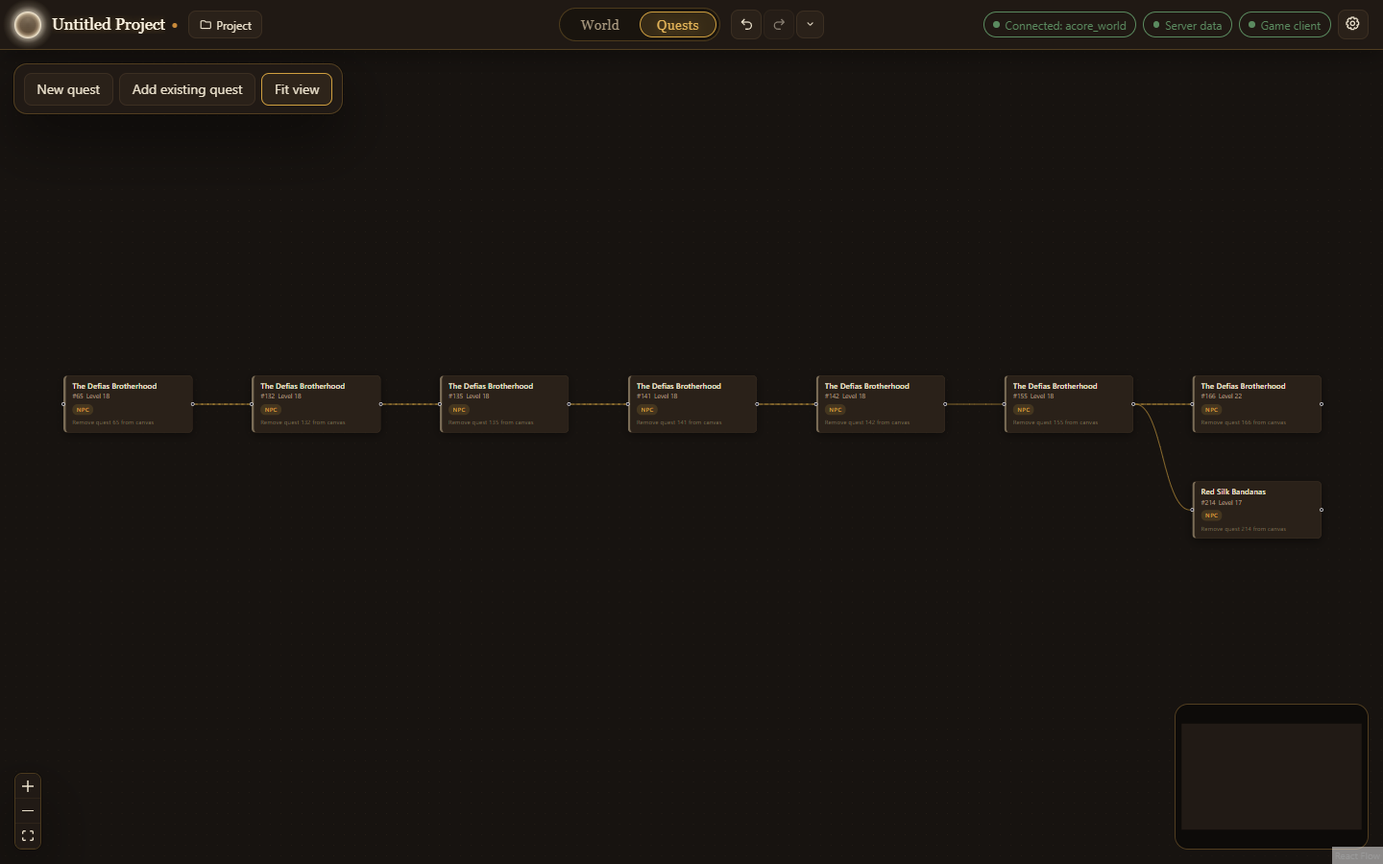
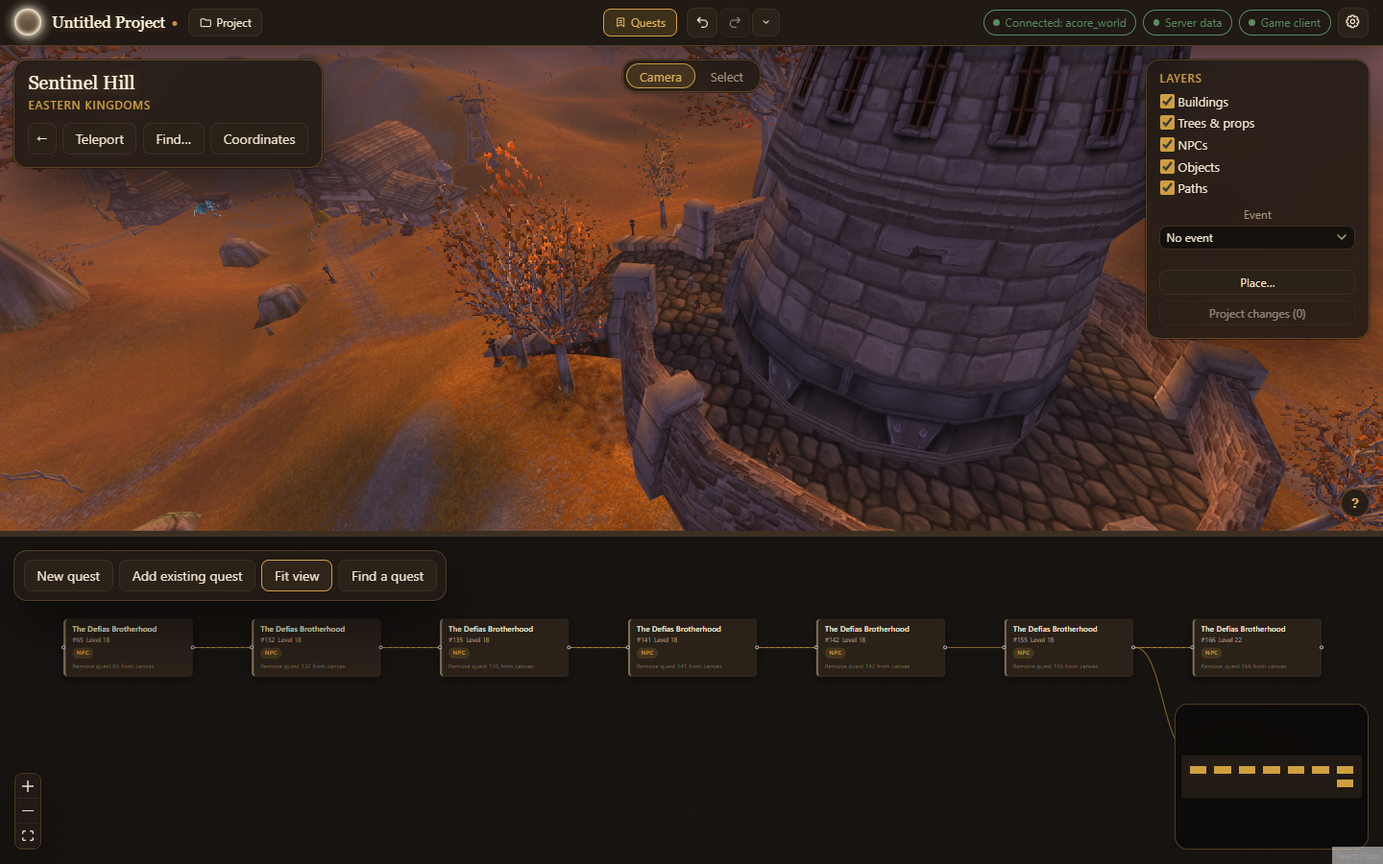
docs: one interface, the Quests dock and the 3D view, with the 2D quest map gone

diff --git a/site/src/content/docs/contributing/architecture.md b/site/src/content/docs/contributing/architecture.md
@@ -12,9 +12,9 @@ Azeroth World Editor is an [Electron](https://www.electronjs.org/) app written i
 ```
 src/
   core/       Pure logic: no Electron, no React. Quest model, schema, SQL, scripts, map maths.
-  main/       Electron's main process: the IPC API, the project store, database connections, map tiles.
+  main/       Electron's main process: the IPC API, the project store, database connections, the game client's files.
   preload/    The bridge that exposes the main process's API to the interface.
-  renderer/   The React interface: the World (world3d/), views, modules, editors, the map.
+  renderer/   The React interface: the World (world3d/), the Quests dock (views/dock/), views, modules, editors.
   shared/     Types shared by main and renderer, such as the IPC contract.
 drizzle/      Migrations for the local project store.
 tests/        core, main, renderer, integration, e2e and docs tests.
@@ -27,9 +27,9 @@ Inside `src/core`, each feature has its own folder: `scripts` (quest scripting s
 
 ## Processes
 
-- The **main process** (`src/main`) owns everything with side effects: the MySQL connection to the world database (read-only) and optional dev database, the open project and its undo history, the local store (SQLite through Drizzle), the file system, the game client and server data folders, the `awe-map://` protocol that serves map tiles and the `awe-wow://` protocol that serves game client files to the 3D view.
+- The **main process** (`src/main`) owns everything with side effects: the MySQL connection to the world database (read-only) and optional dev database, the open project and its undo history, the local store (SQLite through Drizzle), the file system, the game client and server data folders, and the `awe-wow://` protocol that serves game client files to the 3D view.
 - The **API** the renderer calls is `createApi` in `src/main/api/`. It has one module per area (`connection-api`, `lookup-api`, `quests-api`, `map-api`, `entities-api`, `world-layer-api`, `spawn-groups-api`, `history-api`, `export-api` and `project-api`), and each implements its interface from the contract in `src/shared/ipc/`, where each area has a file with its types and its part of `Api` (`QuestsApi`, `MapApi` and so on), and `requests.ts` validates every call as it arrives. The areas are built from shared services, made once in `services.ts`: the connection, the project context, the server data files, the export checks, patch building, spawn groups and history travel. A new call is declared in its area's interface, given a request schema, and written in its area's module; a new area is a new pair of files, its interface added to `Api` and its module spread into `createApi`.
-- The **renderer** (`src/renderer`) is the interface. It talks to the main process only through the API that `src/preload` exposes; state lives in [Zustand](https://zustand.docs.pmnd.rs/) stores in `src/renderer/state`. The app store (`app-store.ts`) is made of slices under `state/app/`, one per area (connection, quest, canvas, rotations, world, export, project, history), each with its own interface; what they share that is not state (debounce timers, request tokens, the undo hold) is the `Kit` in `kit.ts`.
+- The **renderer** (`src/renderer`) is the interface. It talks to the main process only through the API that `src/preload` exposes; state lives in [Zustand](https://zustand.docs.pmnd.rs/) stores in `src/renderer/state`. The app store (`app-store.ts`) is made of slices under `state/app/`, one per area (connection, quest, canvas, focus, links, rotations, world, export, project, history, shell), each with its own interface; what they share that is not state (debounce timers, request tokens, the undo hold) is the `Kit` in `kit.ts`.
 
 ## The 3D view
 
@@ -57,9 +57,18 @@ The app is built around the **World**: the game world in 3D, drawn from the user
 
 `npm run test:world3d` opens the real 3D code in a browser (software WebGL, no graphics card) against a fake game client built by `tests/world3d/fake-client.ts`. The failures here are usually silent, an empty view, so write each test to fail against the old code before fixing. See [Testing](/azeroth-world-editor/contributing/testing/).
 
-### Where it is going
+### One interface
 
-The next step is one interface: the quest chain view built into the 3D view, alongside it. Selecting a quest, or an NPC or object in a quest, takes the World to them, and a change made in either shows in the other at once, around simple click-and-drag workflows. Changes to the 3D view should keep that direction in mind.
+The World and the quest chain are one workspace:
+
+- **The dock.** `views/dock/DockLayout.tsx` lays out the World and the **Quests** dock under or beside it. The dock is closed when the app starts and opens with **Quests** in the top bar or when a quest is opened; the World keeps one wrapper, so it never remounts. The quest editor is a centred modal over both (`views/QuestEditorModal.tsx`).
+- **The focus.** `state/app/focus.ts` holds the one quest, and part of it, that every view agrees on. Opening a quest sets it, and `world3d/useFocusFollow.ts` takes the camera to the quest's nearest NPC or object, unless the author moved the camera after the focus was set. Selecting a giver, ender or objective of the open quest in the World (by a click or with Find) sets the focused part, and the quest's card marks it; that selection never moves the camera.
+- **Preferences.** `preferences/store.ts` keeps this computer's preferences, such as the dock's side and its size on each side, in local storage under `acqc.preferences`, never in the project file. The Settings dialog is built from the sections in `views/settings/sections.ts`; a new tab is a new entry there.
+- **Linking by drag.** Dragging from one quest card's handle to another's makes turning in the first unlock the second. `views/dock/chain-link.ts` decides whether the link is allowed, and `state/app/links-edit.ts` writes it as one undo step without moving the focus.
+- **Placing by drag.** The open quest's card lists its NPCs and objects; each row drags onto the 3D view (`world3d/chain-drop.ts`, `CHAIN_DRAG_TYPE`) to place a spawn there, as one undo step. The rows carry no "placed" marker, because telling whether a database NPC has a spawn would cost a database read per row.
+- **Quest positions.** The open quest's script and fight positions and its POI are drawn as labelled pins (`world3d/scene/marker/MarkerLayer.ts`, built from `world3d/quest-markers.ts`), selected and dragged like spawns.
+
+The 2D quest map and Leaflet were removed when the World took over placing, patrols and quest positions.
 
 ## From the editor to SQL
 
@@ -73,5 +82,5 @@ See [What gets written to the database](/azeroth-world-editor/reference/database
 
 ## Interface conventions
 
-- Creating and editing happen in **centred modals**. The side panel is only for previews (the quest map is the exception).
+- Creating and editing happen in **centred modals**. The side panel is only for previews.
 - Copy is written in **author terms**: quests, givers, NPCs, scenes. Table and column names appear only where an admin needs them, such as the Changes dialog.

diff --git a/CONTRIBUTING.md b/CONTRIBUTING.md
@@ -30,9 +30,11 @@ More: [Development setup](https://dmck96.github.io/azeroth-world-editor/contribu
 | Path | What lives there |
 | --- | --- |
 | `src/core` | Pure logic with no Electron or React: quest model, schema, SQL, scripts, combat, map maths. |
-| `src/main` | Electron's main process: the IPC API, the project store, database connections, map tiles. |
+| `src/main` | Electron's main process: the IPC API, the project store, database connections, the game client's files. |
 | `src/preload` | The bridge exposing the main process's API to the interface. |
-| `src/renderer` | The React interface. |
+| `src/renderer` | The React interface. `state/app/` holds the app store's slices, `preferences/` this computer's preferences. |
+| `src/renderer/views/dock` | The **Quests** dock: `DockLayout` (the World plus a resizable dock under or beside it), `ChainDock` and its `ChainGraph`. |
+| `src/renderer/views/settings` | The Settings dialog's sections, one tab each. |
 | `src/renderer/world3d` | The World: the 3D view, its editing tools and its right-click menu. `scene/` is the vendored Three.js renderer. |
 | `src/shared` | Types shared by main and renderer. |
 | `drizzle/` | Migrations for the local project store. |
@@ -55,7 +57,18 @@ The app opens on the World, and most new work touches it. The decisions to keep:
 - **Frame time is a budget:** measure per-frame work in a busy place such as Goldshire.
 - **Ported code keeps its credit:** licence and authors beside the code, and an entry in [CREDITS.md](CREDITS.md).
 
-Next on the roadmap is one interface: the quest chain view built into the 3D view, each following the other's selection and changes, with click-and-drag workflows. Design new World features with that in mind.
+### One interface
+
+The World and the quest chain are one workspace, and these are the pieces that keep them so:
+
+- **The dock.** `views/dock/DockLayout.tsx` lays out the World and the **Quests** dock under or beside it, closed when the app starts; the World keeps one wrapper, so it never remounts when the dock opens, closes or moves. The quest editor is a centred modal over both (`views/QuestEditorModal.tsx`).
+- **The focus.** `state/app/focus.ts` is the one quest, and part of it, that every view agrees on. Opening a quest sets it; `world3d/useFocusFollow.ts` takes the camera there (unless the author moved it since), and an NPC or object of the open quest selected in the World sets the focused part, which the quest's card marks.
+- **Preferences.** `preferences/store.ts` keeps this computer's preferences (the dock's side and sizes) in local storage under `acqc.preferences`, never in the project. Settings is built from `views/settings/sections.ts`: a new tab is a new entry there.
+- **Linking by drag.** Dragging from one quest card's handle to another's makes turning in the first unlock the second (`views/dock/chain-link.ts` checks it, `state/app/links-edit.ts` writes it as one undo step).
+- **Placing by drag.** A part row on the open quest's card drags onto the 3D view (`world3d/chain-drop.ts`, `CHAIN_DRAG_TYPE`) to place a spawn of it there, one undo step. The rows have no "placed" marker: telling whether a database NPC has a spawn would cost a read per row.
+- **Quest positions.** Script and fight positions and the POI of the open quest are pins in the scene (`world3d/scene/marker/MarkerLayer.ts`, from `world3d/quest-markers.ts`), selected and dragged like spawns.
+
+The 2D quest map is gone: placing, patrols and quest positions are all in the World, and Leaflet is no longer a dependency.
 
 More: [Architecture: the 3D view](https://dmck96.github.io/azeroth-world-editor/contributing/architecture/#the-3d-view)
 
@@ -77,7 +90,7 @@ More: [Testing](https://dmck96.github.io/azeroth-world-editor/contributing/testi
 
 - **Commits** follow [Conventional Commits](https://www.conventionalcommits.org/) with a scope: `feat(quest): …`, `fix(ui): …`, `docs(site): …`.
 - **Logic goes in `src/core`** and is unit-tested there. Write the failing test first; for the 3D view, check it fails against the old code, since its failures are often a silently empty view.
-- **Creating and editing happen in centred modals**; the side panel is only for previews (the quest map is the exception).
+- **Creating and editing happen in centred modals**; the side panel is only for previews.
 - **Interface copy is written in author terms**: quests, givers, NPCs and scenes, never table and column names.
 - **Comments explain why**, not what.
 

diff --git a/site/src/content/docs/guides/projects-and-canvas.md b/site/src/content/docs/guides/projects-and-canvas.md
@@ -1,20 +1,22 @@
 ---
-title: Projects and the quest canvas
-description: Lay out quest chains on the canvas, bring in existing quests and save your work as a project.
+title: Projects and the Quests dock
+description: Lay out quest chains in the dock beside the World, bring in existing quests and save your work as a project.
 sidebar:
   order: 1
 ---
 
-After you connect, the app opens on the **World**. Your quests are in the **Quests** dock: choose **Quests** in the top bar and it opens under the World (or beside it: see **Preferences** in [Settings](/azeroth-world-editor/reference/settings/)). It holds the **canvas**, with every quest in your project as a card and lines showing which quest leads to which. Drag the bar between the World and the dock to resize it. Opening a quest from anywhere opens the dock; opening and closing it keeps both where you left them. **Find a quest**, among the quest tools, searches the database for a quest to open.
+After you connect, the app opens on the **World**, with the **Quests** dock closed. Your quests are in the dock: choose **Quests** in the top bar and it opens under the World (or beside it: see **Preferences** in [Settings](/azeroth-world-editor/reference/settings/)). It holds the **canvas**, with every quest in your project as a card and lines showing which quest leads to which. Drag the bar between the World and the dock to resize it. Opening a quest from anywhere opens the dock; opening and closing it keeps both where you left them. **Find a quest**, among the quest tools, searches the database for a quest to open.
 
-![The canvas showing a chain of quests, each a card linked to the next](../../../assets/screenshots/canvas.png)
+![The World over Sentinel Hill, with the Quests dock under it showing a chain of quests, each a card linked to the next](../../../assets/screenshots/canvas.png)
+
+![The Quests dock beside the World, with the whole chain fitted into it](../../../assets/screenshots/dock-right.png)
 
 ## Add quests
 
 - **New quest** makes a quest from scratch and opens it straight away.
 - **Add existing quest** searches your world database by name or ID. Picking one brings in its **whole chain**: the quest you picked and every quest chained to it.
 
-Choose a card to preview the quest in a panel on the right: its giver, objectives, dialogue, rewards and more at a glance. The open quest's card lists its NPCs and objects (givers, enders and objectives); the one you selected in the World, or last went to, is marked. Drag one of them onto the World to place a spawn of it where you drop it, facing you; it is one step you can undo, and an NPC or object can have more than one spawn. From the preview, **Edit quest** opens it, **Remove from canvas** takes it off the canvas (your database is not touched) and **Close preview** hides the panel.
+Choose a card to open the quest: the World flies to its NPCs, and a preview beside the graph (under it, when the dock is beside the World) shows its giver, objectives, dialogue, rewards and more at a glance. The open quest's card lists its NPCs and objects (givers, enders and objectives); the one you selected in the World, or last went to, is marked. Drag one of them onto the World to place a spawn of it where you drop it, facing you; it is one step you can undo, and an NPC or object can have more than one spawn. The rows do not say whether one is placed already. From the preview, **Edit quest** (or a double-click on the card) opens the quest editor over the World, **Remove from canvas** takes it off the canvas (your database is not touched) and **Close preview** hides the panel.
 
 ## Link quests
 
@@ -28,7 +30,7 @@ Right-click a line for what you can do with it. **Remove link** takes away a tur
 - **Fit view**, with **New quest** and **Add existing quest** in the quest tools at the top left, zooms to show every quest.
 - The small map in the corner shows where you are on a large canvas.
 
-When you are inside a quest, **← Back to chain** returns to the canvas.
+In the quest editor, **← Back to chain** or **Esc** closes it and returns to the dock.
 
 ## Projects
 

diff --git a/README.md b/README.md
@@ -31,12 +31,12 @@
 ## What it does
 
 - **The world in 3D.** Walk the game world from your client files; place, move and turn NPCs and objects, draw their paths, set respawn times and build spawn groups, then export the changes as a project patch.
-- **Quest chains on a canvas.** Make new quests or bring in existing chains from your world database, see how they connect, and drag from one quest to another to link them.
+- **Quest chains docked to the World.** The **Quests** dock sits under or beside the 3D view. Make new quests or bring in existing chains from your world database, see how they connect, and drag from one quest to another to link them. Pick a quest and the camera flies to its NPCs; select one of them in the World and it is marked on the quest's card; drag one from the card onto the ground to place it.
 - **Givers and objectives.** Choose who offers and takes back a quest, and what the player must kill, use, collect or explore.
 - **Quest scripting.** Describe what happens around a quest as scenes: an NPC speaks on accept, a talk option gives credit, an escort walks a path.
 - **Combat wizard.** Design how an NPC fights, from one ability to a boss with phases, adds and health thresholds.
 - **New NPCs and objects.** Pick how they look, their faction and weapons, who sees them (the living, only the dead like a spirit healer, or both) and the game events their spawns follow; make readable books and notes, and chests with loot.
-- **Quest map.** Place spawns on the world map with the game's zone art, snap them to the ground and draw patrol routes with actions at each point.
+- **Patrols.** Place a new NPC in the World from its quest, draw its patrol on the ground and give each point a wait, a pace and actions such as a line to say.
 - **Test in game.** Get the GM commands to reload and try a quest on your test server.
 - **Export.** Review every change, then export an SQL patch or apply it to a dev database. Your live world database is only ever read.
 
@@ -50,11 +50,11 @@
     <td align="center"><sub><b>After</b>: dragged back onto the road, one entry in Project changes</sub></td>
   </tr>
   <tr>
-    <td width="50%"><img src="site/src/assets/screenshots/canvas.png" alt="The Quests canvas showing a chain of quests"></td>
+    <td width="50%"><img src="site/src/assets/screenshots/canvas.png" alt="The World over Sentinel Hill with the Quests dock under it, showing a chain of quests"></td>
     <td width="50%"><img src="site/src/assets/screenshots/world-menu.png" alt="The World's right-click menu"></td>
   </tr>
   <tr>
-    <td align="center"><sub><b>Quests</b>: chains on a canvas</sub></td>
+    <td align="center"><sub><b>Quests</b>: the chain in a dock under the World</sub></td>
     <td align="center"><sub><b>Right-click</b>: what you can do with what is under the cursor</sub></td>
   </tr>
   <tr>
@@ -66,11 +66,11 @@
     <td align="center"><sub><b>Combat wizard</b>: from one ability to a boss with phases</sub></td>
   </tr>
   <tr>
-    <td width="50%"><img src="site/src/assets/screenshots/quest-map.png" alt="The quest map with spawns placed in Elwynn Forest"></td>
+    <td width="50%"><img src="site/src/assets/screenshots/dock-right.png" alt="The Quests dock beside the World, with the whole chain fitted into it"></td>
     <td width="50%"><img src="site/src/assets/screenshots/npc-editor.png" alt="The NPC editor choosing how an NPC looks"></td>
   </tr>
   <tr>
-    <td align="center"><sub><b>Quest map</b>: spawns and patrols on the zone art</sub></td>
+    <td align="center"><sub><b>Beside the World</b>: the other dock layout, from Settings</sub></td>
     <td align="center"><sub><b>NPC editor</b>: looks, faction and weapons</sub></td>
   </tr>
 </table>

diff --git a/site/src/content/docs/guides/patrols.md b/site/src/content/docs/guides/patrols.md
@@ -7,7 +7,7 @@ sidebar:
 
 A **patrol** is a route a new NPC walks, over and over. At each point it can wait, say something, play an emote and more.
 
-![A patrol of three points being drawn, with the menu of point actions open](../../../assets/screenshots/patrol.png)
+![A patrol drawn in the World, with a point's settings open and a line for the NPC to say there](../../../assets/screenshots/patrol.png)
 
 ## Draw a route
 
@@ -15,27 +15,22 @@ A **patrol** is a route a new NPC walks, over and over. At each point it can wai
 2. Choose **Draw patrol** on its card, or beside one of its spawns under **Placement** in its editor. The editor steps aside and [the World](/azeroth-world-editor/guides/the-world/) goes to that spawn.
 3. Click the ground to add points in order. **Enter** finishes the path and brings the editor back; **Done** does the same.
 
-An NPC that already patrols offers **Edit patrol** instead: its route is shown to drag, and **Shift-click** adds a point. **Done** brings the editor back.
-
-On the [quest map](/azeroth-world-editor/guides/quest-map/), **Draw patrol** on a selected spawn draws a route by clicking the map. Under **Starts**, choose whether the NPC sets off walking or running. **Clear route** removes every point.
+For an NPC that already patrols (beside its spawn the button reads **Edit patrol**), its route is shown to drag instead, and **Shift-click** adds a point. **Done** brings the editor back.
 
 The NPC walks from its spawn through each point and back to where it stands, then starts again.
 
+In the World, a selected NPC's route is shown: drag its points to move them, **Shift**-click to add one and **Delete** to remove the picked ones. **Remove path** in the right-click menu takes the whole route away. Each change is one step you can [undo](/azeroth-world-editor/guides/undo/).
+
 ## What happens at a point
 
-Right-click a point for its actions:
+Right-click a point of the route and choose **Point settings…**:
 
-- **Wait here…**: stand still for a number of seconds.
-- **Face direction…**: turn to face a direction.
-- **Walk from here** / **Run from here**: change pace for the rest of the route.
-- **Say something…**: say one or more lines, each with a style (say, yell…), a chance and a delay.
-- **Play an emote…**, **Hold a pose while waiting…**
-- **Cast a spell…**, **Play a sound…**
-- **Mount…**, **Dismount**
-- **Use an object…**
-- **Insert point after**, **Remove point**
+- **Wait (seconds)**: stand still there for a while.
+- **Pace from here**: walk or run on from this point. On the route's first point, where the NPC stands, it sets the pace it sets off at.
+- **Set facing**: the direction to face while waiting, in degrees.
+- **Actions**: **Say something** (one or more lines, each with a style such as say or yell, a chance and a delay), **Play an emote**, **Hold a pose while waiting**, **Cast a spell**, **Play a sound**, **Mount**, **Dismount** and **Use an object** (by its spawn guid, picked by name).
 
-Choose a point's button in the panel to edit its settings there. In the World, right-click a point of the route and choose **Point settings…** for the same settings (the facing is typed in degrees there, and an object to use is given by its spawn guid and picked by name).
+**Apply** is one undo step.
 
 :::note
 A fight pauses the patrol; the NPC carries on after combat. A new or changed patrol starts after a server restart.

diff --git a/site/src/content/docs/getting-started/introduction.md b/site/src/content/docs/getting-started/introduction.md
@@ -19,14 +19,14 @@ You never edit database tables by hand, and the app never writes to your live wo
 
 - **Your world database.** The app reads quests, NPCs, items and spells from your server's world database over MySQL (usually called `acore_world`). A read-only user is enough.
 - **The server data folder** (optional). The worldserver's data folder, the one holding `dbc/`. With it the app shows values the server reads from its DBC files, such as how much XP each reward tier gives, lets you search spells and models by name, and can snap spawns to the ground.
-- **Your game client folder** (optional, but the app is built around it). The folder with `Wow.exe`. With it the app draws [the World](/azeroth-world-editor/guides/the-world/) in 3D, where it opens, and the quest map shows the game's zone art and minimap.
+- **Your game client folder** (optional, but the app is built around it). The folder with `Wow.exe`. With it the app draws [the World](/azeroth-world-editor/guides/the-world/) in 3D, where it opens.
 - **A dev database** (optional). A separate world database on a test server, for **Apply to dev DB**.
 
 ## How a session goes
 
 1. [Connect](/azeroth-world-editor/getting-started/connect/) to your world database. The app opens on [the World](/azeroth-world-editor/guides/the-world/).
 2. Find the place you are working on, and select, move, place and group its NPCs and objects; fix or draw the paths they walk. Right-click anything for what you can do with it.
-3. For a quest, start it from an NPC in the World or on the **Quests** canvas, and fill in its parts: givers, objectives, dialogue, rewards, scripts. Opening a quest takes the World to its NPCs.
+3. For a quest, start it from an NPC in the World or in the **Quests** dock, and fill in its parts: givers, objectives, dialogue, rewards, scripts. Opening a quest takes the World to its NPCs.
 4. Review the changes in **Project changes**, then export an SQL patch or apply it to your dev database, and [test it in game](/azeroth-world-editor/guides/test-in-game/).
 
 Ready? [Install the app](/azeroth-world-editor/getting-started/install/), then walk through [your first quest](/azeroth-world-editor/getting-started/first-quest/).

diff --git a/site/src/content/docs/guides/index.md b/site/src/content/docs/guides/index.md
@@ -9,7 +9,7 @@ sidebar:
 One guide per part of the app: what it is for and how to use it.
 
 - [The World in 3D](/azeroth-world-editor/guides/the-world/): walk the world, place and move NPCs and objects, draw their paths, and tie them to your quest.
-- [Projects and the quest canvas](/azeroth-world-editor/guides/projects-and-canvas/): lay out quest chains, bring in existing quests and save your work.
+- [Projects and the Quests dock](/azeroth-world-editor/guides/projects-and-canvas/): lay out quest chains beside the World, bring in existing quests and save your work.
 - [Quest details, objectives and rewards](/azeroth-world-editor/guides/quest-details-and-objectives/): the quest editor and its modules.
 - [Quest givers and enders](/azeroth-world-editor/guides/givers-and-enders/): who offers the quest and who takes it back.
 - [Quest scripting](/azeroth-world-editor/guides/quest-scripting/): what NPCs, objects and areas do around a quest.
@@ -20,7 +20,6 @@ One guide per part of the app: what it is for and how to use it.
 - [Items](/azeroth-world-editor/guides/items/): quest items and rewards.
 - [Loot](/azeroth-world-editor/guides/loot/): what NPCs drop and chests hold.
 - [Combat wizard](/azeroth-world-editor/guides/combat-wizard/): design how an NPC fights.
-- [Quest map](/azeroth-world-editor/guides/quest-map/): place spawns in the world.
-- [Patrols](/azeroth-world-editor/guides/patrols/): routes NPCs walk and what they do along the way.
+- [Patrols](/azeroth-world-editor/guides/patrols/): routes new NPCs walk, drawn in the World, and what they do along the way.
 - [Test in game](/azeroth-world-editor/guides/test-in-game/): the commands to try a quest on your test server.
 - [Exporting and applying](/azeroth-world-editor/guides/export-and-apply/): turn your work into SQL, for a quest or for the world changes.

diff --git a/site/src/content/docs/reference/settings.md b/site/src/content/docs/reference/settings.md
@@ -25,8 +25,8 @@ The world database is only ever read.
 
 | Setting | Meaning |
 | --- | --- |
-| Server data folder | The worldserver's data folder, the one holding `dbc/`. Adds XP values, name search for spells and models, ground height and floors on the map. |
-| Game client folder | The folder with `Wow.exe`. Adds zone art and the minimap to the quest map. |
+| Server data folder | The worldserver's data folder, the one holding `dbc/`. Adds XP values, name search for spells and models, and ground height and floors in the World. |
+| Game client folder | The folder with `Wow.exe`. The World is drawn from it in 3D. |
 | Export folder | Where **Export patch** writes SQL files. Empty: `Documents/Azeroth World Editor/sql`. |
 
 All three are optional.
@@ -41,11 +41,11 @@ All three are optional.
 
 ## Preferences
 
-The **Preferences** tab holds how the app looks on this computer. **Quest dock** puts the **Quests** dock **Under the world** or **Beside the world**; each side remembers its own size. Preferences are kept on this computer, not in the project.
+The **Preferences** tab holds how the app looks on this computer. **Quest dock** puts the **Quests** dock **Under the world** or **Beside the world**; each side remembers its own size. Drag the bar between the World and the dock to resize it. Preferences are kept on this computer, not in the project. The **✕** in the corner closes Settings from either tab.
 
 ## Where the app keeps its data
 
-Connection details, recent projects, recovery copies and cached map tiles live in the app's data folder:
+Connection details, recent projects and recovery copies live in the app's data folder:
 
 | System | Folder |
 | --- | --- |

diff --git a/site/src/content/docs/guides/the-world.md b/site/src/content/docs/guides/the-world.md
@@ -99,7 +99,7 @@ Placing, pasting and removing are undone with **Ctrl+Z** like any other change.
 - **Start path here**: with one NPC selected that has no route, right-click the ground where its path should begin. Each click then adds the next point. **Enter** or **Esc** finishes, **Ctrl+Z** takes back the last point, and **Cancel path** puts everything back. A path needs at least two points.
 - **Change wander distance…**: how far the NPC roams from where it stands, 0 to 100 yards. Its circle follows what you type.
 - **Remove path**: the NPC stands still. A path the database already has is left in place for any other NPC that walks it.
-- **Point settings…** (right-click a point of a shown route): what the NPC does there. On a route the database has: how long it waits, whether it walks or runs on from there, and the way it faces; a waypoint script the point already runs is named and kept. On your own NPC's patrol: the same, plus its actions (saying a line, an emote, a pose, a spell, a sound, mounting, using an object by its spawn guid), as on the quest map. **Apply** is one undo step.
+- **Point settings…** (right-click a point of a shown route): what the NPC does there. On a route the database has: how long it waits, whether it walks or runs on from there, and the way it faces; a waypoint script the point already runs is named and kept. On your own NPC's patrol: the same, plus its actions (saying a line, an emote, a pose, a spell, a sound, mounting, using an object by its spawn guid); see [patrols](/azeroth-world-editor/guides/patrols/#what-happens-at-a-point). **Apply** is one undo step.
 
 These work for any NPC, whether the database has it or you made it.
 

diff --git a/site/src/content/docs/contributing/docs-and-screenshots.md b/site/src/content/docs/contributing/docs-and-screenshots.md
@@ -21,7 +21,7 @@ The build fails on a broken internal link or a missing image, so run it before y
 
 - Pages live in `site/src/content/docs/`, one folder per sidebar group: `getting-started`, `guides`, `reference`, `contributing`.
 - Each page's frontmatter sets its `title`, `description` and `sidebar.order`.
-- Link to other pages with the full path, including the site's base: `/azeroth-world-editor/guides/quest-map/`.
+- Link to other pages with the full path, including the site's base: `/azeroth-world-editor/guides/the-world/`.
 - Write for quest authors: name things the way the app does, in author terms. Table names belong on the [database tables](/azeroth-world-editor/reference/database-tables/) page only.
 
 ## Screenshots
@@ -36,7 +36,7 @@ It needs `.env` with a world database, the server data folder and the game clien
 
 `tests/docs/route-change.docs.ts` takes the World guide's before and after of a route change: it opens `tests/docs/fixtures/goldshire.awe`, a project that moves one stretch of a Stormwind Guard's route north of Goldshire onto the road, and shoots both from the same camera.
 
-Regenerate the screenshots after a change to a screen the docs show, and before a release. Check each image before committing. Pages use them with Markdown image syntax, such as `![The quest map](../../../assets/screenshots/quest-map.png)`.
+Regenerate the screenshots after a change to a screen the docs show, and before a release. Check each image before committing. Pages use them with Markdown image syntax, such as `![The World](../../../assets/screenshots/world.png)`.
 
 ## The app icon
 

diff --git a/site/src/content/docs/getting-started/connect.md b/site/src/content/docs/getting-started/connect.md
@@ -21,8 +21,8 @@ The password is stored encrypted on your computer. Once one is saved, the field 
 
 ## Folders (optional)
 
-- **Server data folder**: the worldserver's data folder, the one holding `dbc/`. It lets the app show XP values for reward tiers, search spells and creature or object models by name, and snap spawns to the ground on the map. Everything works without it; those parts fall back to typing IDs.
-- **Game client folder**: the folder with `Wow.exe`. [The World](/azeroth-world-editor/guides/the-world/) is drawn from it in 3D, and the quest map uses its zone art and minimap.
+- **Server data folder**: the worldserver's data folder, the one holding `dbc/`. It lets the app show XP values for reward tiers, search spells and creature or object models by name, and snap spawns to the ground in the World. Everything works without it; those parts fall back to typing IDs.
+- **Game client folder**: the folder with `Wow.exe`. [The World](/azeroth-world-editor/guides/the-world/) is drawn from it in 3D.
 - **Export folder**: where **Export patch** writes SQL files, such as your server's `data/sql/custom/db_world`. Left empty, they go to `Documents/Azeroth World Editor/sql`.
 
 Use **Browse…** to pick a folder instead of typing it.

diff --git a/site/src/content/docs/reference/troubleshooting.md b/site/src/content/docs/reference/troubleshooting.md
@@ -1,6 +1,6 @@
 ---
 title: Troubleshooting
-description: Fixes for common problems with connecting, the map and installing.
+description: Fixes for common problems with connecting, the World and installing.
 sidebar:
   order: 4
 ---
@@ -11,9 +11,9 @@ sidebar:
 - Check the MySQL user can connect from your computer and read the world database. A read-only user is enough.
 - The error shows in the login screen or Settings; *Access denied* means the user name or password is wrong.
 
-## The map is blank or has no zone art
+## The World is not drawn
 
-The zone art and minimap come from the **game client folder**. Set it in [Settings](/azeroth-world-editor/reference/settings/) to the folder with `Wow.exe`. The top bar shows **Game client** once it opened.
+The World is drawn from the **game client folder**. Set it in [Settings](/azeroth-world-editor/reference/settings/) to the folder with `Wow.exe`. The top bar shows **Game client** once it opened. In a busy place the ground and its NPCs can take a few seconds to load.
 
 ## No heights, floors or ground snapping
 
